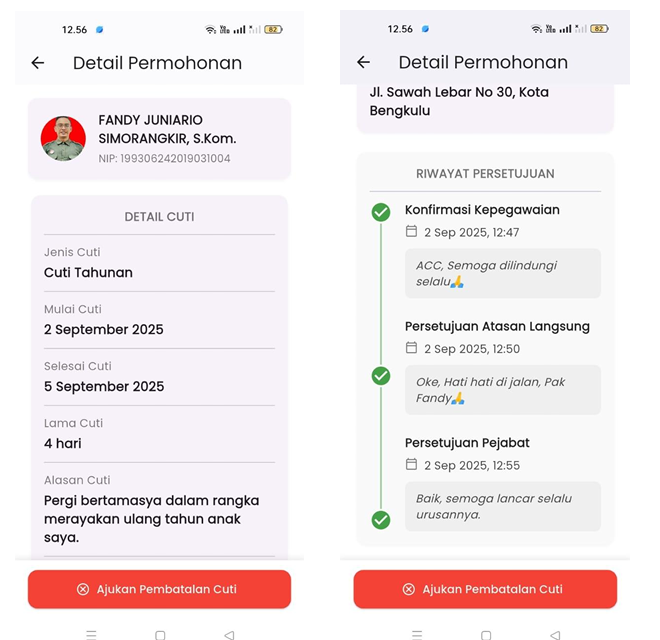
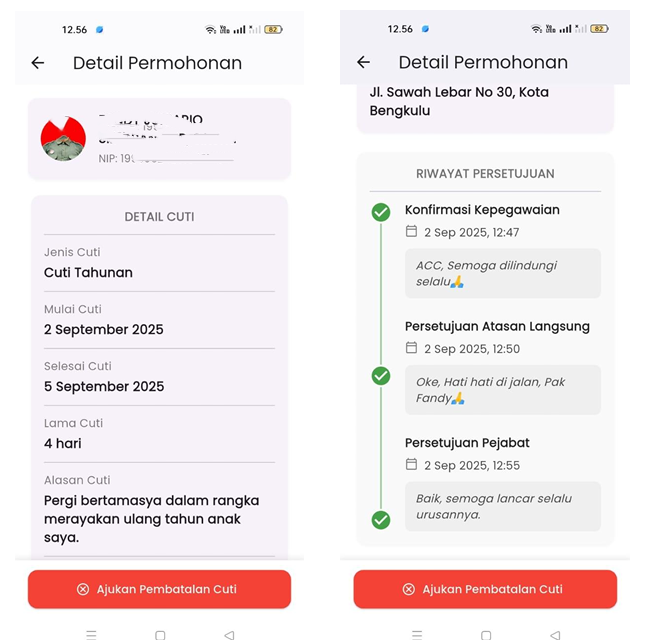
Samakan tinggi gambar di README

Changed region(s): [[0.1515, 0.1562, 0.3636, 0.25], [0.0606, 0.1875, 0.1212, 0.2188]]

diff --git a/README.md b/README.md
@@ -49,9 +49,9 @@ Pegawai dapat mengajukan pembatalan cuti yang sudah diajukan atau disetujui. Pem
 <p>
   <img src="screenshoot/pengajuan_pembatalan1.png" height="320">
   <img src="screenshoot/pengajuan_pembatalan2.png" height="320">
-  <img src="screenshoot/Pengajuan_pembatalan3.png" height="320">
+  <img src="screenshoot/Pengajuan_pembatalan3_rev.png" height="320">
   <img src="screenshoot/pengajuan_pembatalan4.png" height="320">
-  <img src="screenshoot/batalkan_konfirmasi.png" height="320">
+  <img src="screenshoot/batalkan_konfirmasi_rev.png" height="320">
 </p>
 
 ### 5. Riwayat
